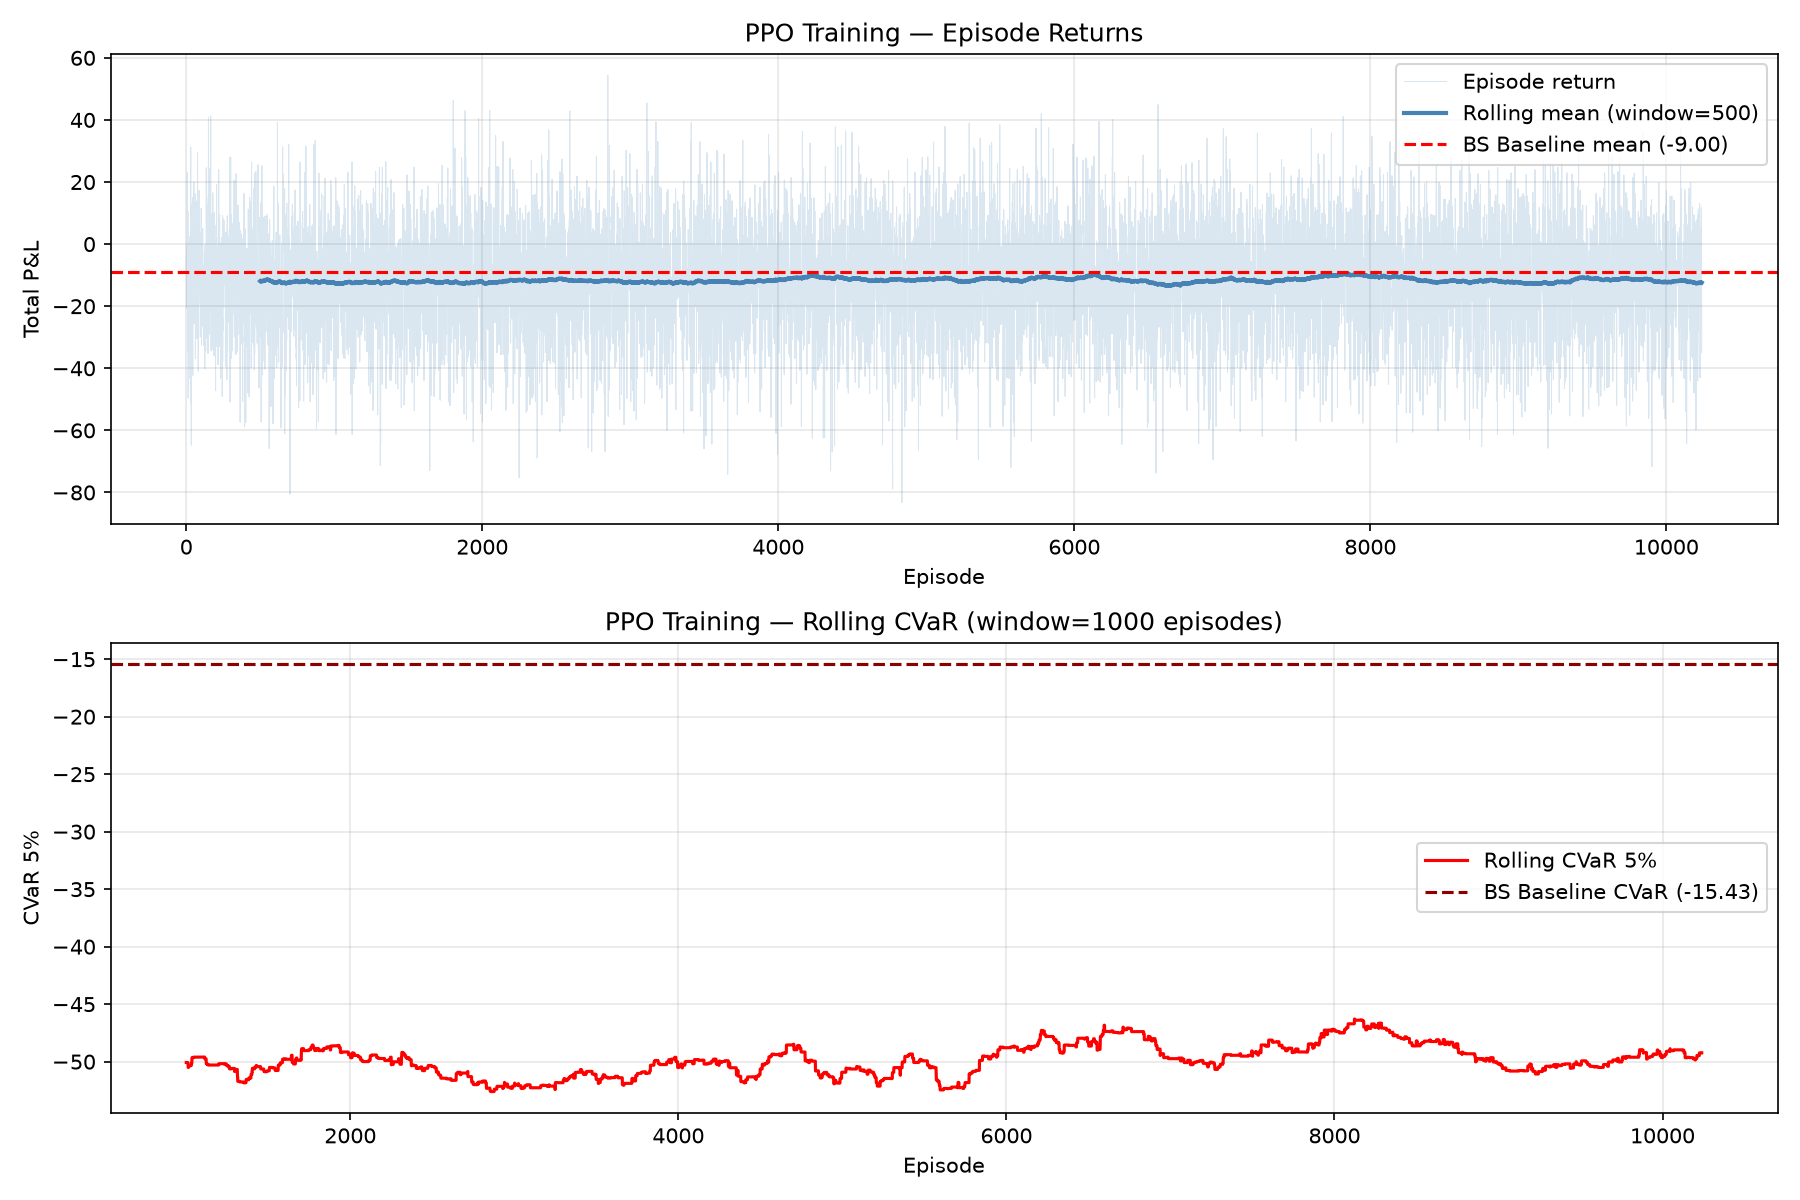
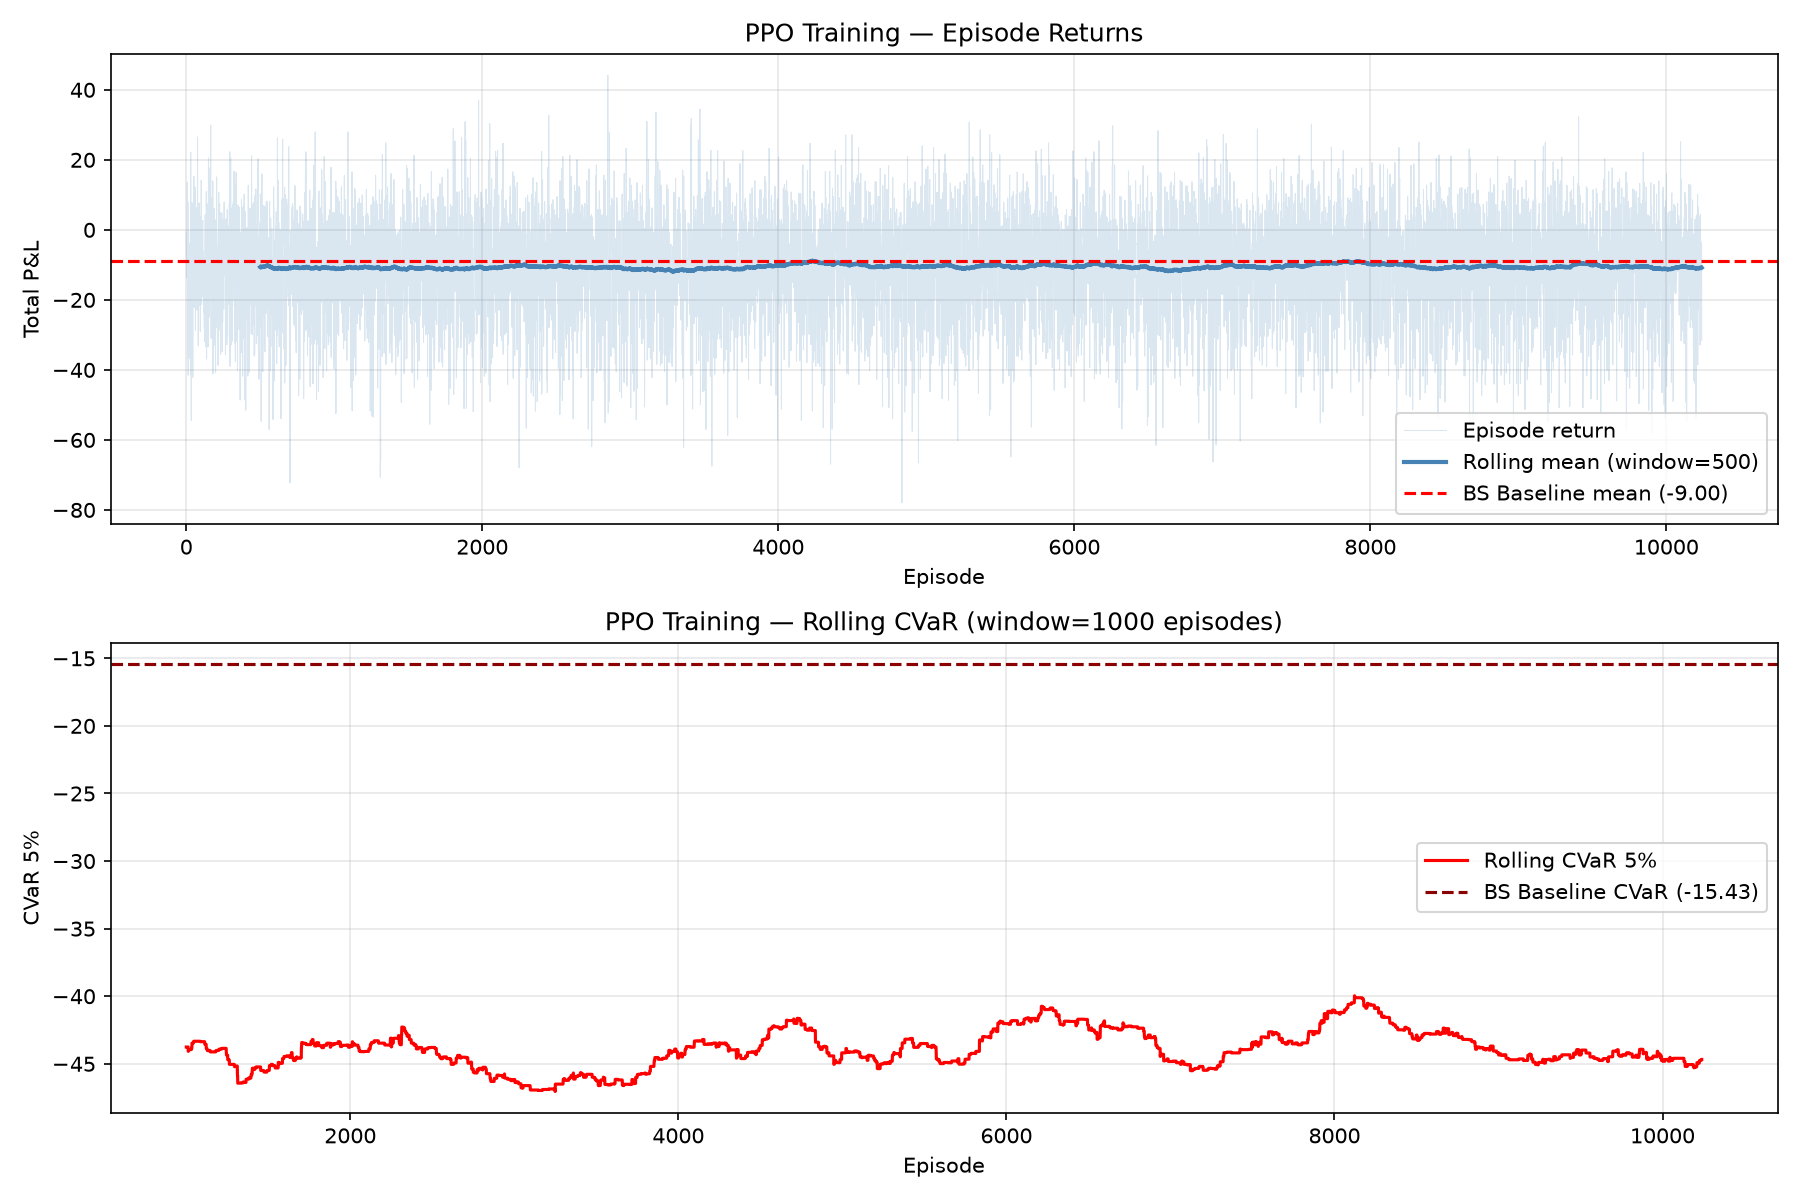
Phase 2: ready for full training run

diff --git a/training/train_ppo.py b/training/train_ppo.py
@@ -157,19 +157,23 @@ def main():
     # ------------------------------------------------------------------
     # Quick summary statistics at end of training
     # ------------------------------------------------------------------
-    returns_arr    = np.array(returns)
-    final_returns  = returns_arr[-10_000:]   # last 10k episodes
-    threshold      = np.quantile(final_returns, 0.05)
-    tail           = final_returns[final_returns <= threshold]
-    final_cvar     = float(np.mean(tail))
+    returns_arr = np.array(returns)
 
-    print("\n" + "="*60)
-    print("  Phase 2 Training Complete — Final 10,000 Episodes")
-    print("="*60)
+    # Safe slice — use all returns if fewer than 10k episodes completed
+    n_final = min(10_000, len(returns_arr))
+    final_returns = returns_arr[-n_final:]
+
+    threshold = np.quantile(final_returns, 0.05)
+    tail = final_returns[final_returns <= threshold]
+    final_cvar = float(np.mean(tail))
+
+    print("\n" + "=" * 60)
+    print(f"  Phase 2 Training Complete — Final {n_final:,} Episodes")
+    print("=" * 60)
     print(f"  Mean P&L:   {np.mean(final_returns):>8.4f}  (BS: -9.00)")
     print(f"  Std P&L:    {np.std(final_returns):>8.4f}  (BS:  2.49)")
     print(f"  CVaR 5%:    {final_cvar:>8.4f}  (BS: -15.43)")
-    print("="*60 + "\n")
+    print("=" * 60 + "\n")
 
 
 if __name__ == "__main__":